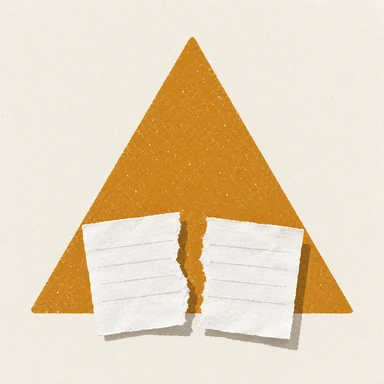
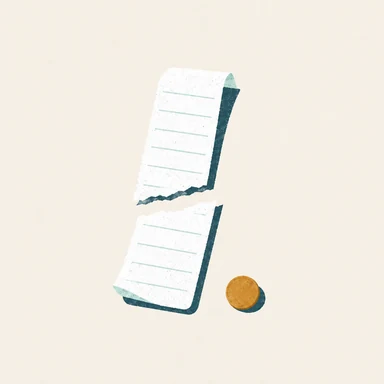
feat(aset): pita scan jadi CSS, enam ilustrasi digambar ulang, error tanpa segitiga
1. Pita scan: 126 KB -> 0. `scan-frames.webp` berisi 20 frame struk yang sama,
   cuma garis hijaunya yang turun — 126 KB untuk memindahkan satu garis, dan
   ditumpuk di atas `scan.webp` sehingga rawan dobel 1 px. Sekarang `.ds-scan-beam`
   gradient CSS digeser translate3d 0->92 px, 1,15 dtk alternate, easing melambat
   di dua ujung; 60 fps karena compositor, bukan 20 sel di 700 ms (~28 fps).
   Berkas dan pemakaian SpriteFrames di layar Buat dihapus.

2. Enam ilustrasi statis yang mediumnya melawan sistem digambar ulang lewat Codex
   dengan kontrak yang sama disalin apa adanya, tiga aset yang sudah benar
   (welcome/scan/manual) dikirim sebagai referensi gaya:
   create-hero (cat air -> cetak), share (vektor bersih -> kertas bergaris),
   item (ikon generik -> piring potong tangan + koin amber), receipt-app (garis
   telanjang -> ada bayangan keras), home-empty (gradien+blur -> flat),
   error (segitiga amber dihapus, tinggal struk sobek dua + koin menggelinding).

3. Berat turun: enam aset 131 KB -> 61 KB. Dinilai pada ukuran tampil sebenarnya
   (104-216 px), semua terbaca; receipt-app yang paling rapuh tapi masih jelas.

Uji: 46 lulus (photo-intents, bills, app) termasuk 40b yang ditulis ulang untuk
mengukur transform pita, bukan background-position sprite. tsc bersih.

Changed region(s): [[0.0625, 0.0938, 0.9375, 0.9375], [0.5625, 0.6875, 0.6875, 0.8125], [0.625, 0.625, 0.6875, 0.6562]]

diff --git a/frontend/tests/photo-intents.spec.ts b/frontend/tests/photo-intents.spec.ts
@@ -122,7 +122,7 @@ test.describe('Bill baru — foto boleh dibaca AI, boleh cuma dilampirkan', () =
     await expect(page.getByText(/Membaca struk…/)).toHaveCount(0)
   })
 
-  test('40b. yang bergerak saat memindai hanya garis hijaunya, bukan ilustrasinya', async ({ page }) => {
+  test('40b. yang bergerak saat memindai hanya pitanya, bukan ilustrasinya', async ({ page }) => {
     await freshUser(page, 'Candra')
     // Tahan keadaan memindai cukup lama untuk diukur.
     await page.route('**/api/ocr', async (route) => {
@@ -136,7 +136,7 @@ test.describe('Bill baru — foto boleh dibaca AI, boleh cuma dilampirkan', () =
 
     await page.goto('/create')
     await pickPhotoThrough(page, 'ocr')
-    await expect(page.locator('.ds-scan-frames')).toBeVisible({ timeout: 20000 })
+    await expect(page.locator('.ds-scan-beam')).toBeVisible({ timeout: 20000 })
 
     /* Ilustrasinya harus diam: dulu seluruh gambar diangguk 3 px, dan mata
        membacanya sebagai gambar goyang, bukan alat yang sedang memindai. */
@@ -145,19 +145,16 @@ test.describe('Bill baru — foto boleh dibaca AI, boleh cuma dilampirkan', () =
     )
     expect(latar, 'ilustrasi tidak boleh ikut bergerak').toBe('none')
 
-    /* Pita pindainya 8 frame hasil generate: yang berubah adalah pilihan sel
-       (background-position), bukan transform satu gambar. Diukur bukan dari
-       animasinya tapi dari nilai yang benar-benar dipakai — kalau jarak
-       langkahnya salah, posisinya jatuh di antara dua sel dan yang tampil
-       potongan struk sebelah. */
+    /* Pitanya sekarang gradient CSS yang digeser `transform` — 0 byte aset, dan
+       compositor yang menjalankannya di 60 fps. Yang diukur nilai transform yang
+       benar-benar dipakai, bukan nama animasinya. */
     const baca = () =>
       page.evaluate(() => {
-        const pita = document.querySelector('.ds-scan-frames') as HTMLElement
+        const pita = document.querySelector('.ds-scan-beam') as HTMLElement
         const art = document.querySelector('.ds-scan-art') as HTMLElement
         const gaya = getComputedStyle(pita)
         return {
-          posisi: gaya.backgroundPosition,
-          ukuran: gaya.backgroundSize,
+          posisi: gaya.transform,
           animasi: gaya.animationName,
           pita: pita.getBoundingClientRect().toJSON(),
           art: art.getBoundingClientRect().toJSON(),
@@ -165,13 +162,10 @@ test.describe('Bill baru — foto boleh dibaca AI, boleh cuma dilampirkan', () =
       })
 
     const awal = await baca()
-    /* 20 sel sekarang; animasinya digerakkan `requestAnimationFrame`, bukan
-       keyframe CSS, jadi yang diperiksa nilai `background-position` yang benar-
-       benar berubah — bukan nama animasinya. */
-    expect(awal.ukuran).toBe('2000% 100%')
-    await page.waitForTimeout(300)
+    expect(awal.animasi, 'pitanya harus dianimasikan').toContain('ds-pindai')
+    await page.waitForTimeout(320)
     const tengah = await baca()
-    expect(tengah.posisi, 'pitanya harus pindah frame').not.toBe(awal.posisi)
+    expect(tengah.posisi, 'pitanya harus bergerak').not.toBe(awal.posisi)
 
     // Selama bergerak, pitanya tetap di dalam kotak ilustrasi.
     for (const f of [awal, tengah]) {
@@ -179,13 +173,13 @@ test.describe('Bill baru — foto boleh dibaca AI, boleh cuma dilampirkan', () =
       expect(f.pita.bottom, 'pita keluar dari bawah kotak').toBeLessThanOrEqual(f.art.bottom + 0.5)
     }
 
-    // Yang meminta gerak dikurangi: pitanya diam di frame pertama, bukan melambat.
+    // Yang meminta gerak dikurangi: pitanya berhenti, bukan melambat.
     await page.emulateMedia({ reducedMotion: 'reduce' })
     const diam = await page.evaluate(() => {
-      const pita = document.querySelector('.ds-scan-frames') as HTMLElement
-      return { posisi: getComputedStyle(pita).backgroundPosition }
+      const pita = document.querySelector('.ds-scan-beam') as HTMLElement
+      return { animasi: getComputedStyle(pita).animationName }
     })
-    expect(diam.posisi, 'gerak dikurangi: pitanya menetap di frame pertama').toBe('0px 0px')
+    expect(diam.animasi, 'gerak dikurangi: pitanya berhenti').toBe('none')
   })
 
   test('40c. screenshot di papan klip bisa ditempel, teks biasa tidak mengganggu', async ({ page }) => {
@@ -232,7 +226,7 @@ test.describe('Bill baru — foto boleh dibaca AI, boleh cuma dilampirkan', () =
 
     await page.getByRole('button', { name: 'Baca pakai AI' }).click()
     await expect(page.locator('.ds-create-hero.is-scanning')).toBeVisible({ timeout: 20000 })
-    await expect(page.locator('.ds-scan-frames')).toBeVisible()
+    await expect(page.locator('.ds-scan-beam')).toBeVisible()
     await expect(page.locator('#bill-title')).toHaveValue(/Gojek/i, { timeout: 20000 })
     expect(dibaca, 'setelah dipilih, tempelan dibaca AI').toBe(1)
   })

diff --git a/frontend/src/app.css b/frontend/src/app.css
@@ -372,12 +372,12 @@ p, small, .app-note { text-wrap: pretty; }
 
 .welcome-art { border-radius: 22px; object-fit: cover; }
 
-/* Ilustrasi pindai: gambarnya diam, hanya garis hijaunya yang bergerak.
-   Sebelumnya seluruh ilustrasi diangguk 3 px — mata membacanya sebagai gambar
-   yang goyang, bukan sebagai alat yang sedang memindai. Sekarang yang bergerak
-   hanya pitanya, dan pitanya benar-benar delapan gambar berbeda: pita pindai
-   turun dari frame ke frame (`anim/scan-frames.webp`), bukan satu garis yang
-   digeser transform di atas gambar diam lain. Ilustrasi diamnya tetap diam. */
+/* Ilustrasi pindai: gambarnya diam, hanya pitanya yang bergerak.
+   Pita ini dulu 20 frame raster (126 KB) yang isinya struk yang sama, cuma
+   garis hijaunya yang turun — bayar 126 KB untuk memindahkan satu garis, dan
+   artefaknya ditumpuk dua lapis di atas `scan.webp` (rawan dobel 1 px). Sekarang
+   pitanya gradient CSS: 0 byte, digerakkan `transform` saja, jadi compositor
+   yang jalan di 60 fps — bukan 20 sel di 700 ms (~28 fps). */
 .ds-scan-art {
   position: relative;
   width: 120px;
@@ -393,25 +393,45 @@ p, small, .app-note { text-wrap: pretty; }
   border-radius: 16px;
   display: block;
 }
-/* 20 sel: pemutar JS yang memilih selnya (lihat SpriteFrames), jadi ukuran
-   gambar cukup dinyatakan sekali di sana. Di sini tinggal tempatnya. */
-.ds-scan-frames {
+.ds-scan-beam {
   position: absolute;
-  inset: 0;
+  left: 10%;
+  right: 10%;
+  top: 0;
+  height: 26px;
   z-index: 1;
-  border-radius: 16px;
-  animation: ds-scan-in .18s ease both;
+  border-radius: 8px;
+  pointer-events: none;
+  background: linear-gradient(
+    to bottom,
+    rgba(8, 118, 101, 0) 0%,
+    rgba(8, 118, 101, 0.34) 38%,
+    rgba(8, 118, 101, 0.86) 50%,
+    rgba(8, 118, 101, 0.34) 62%,
+    rgba(8, 118, 101, 0) 100%
+  );
+  will-change: transform;
+  animation:
+    ds-pindai-masuk 0.18s ease both,
+    ds-pindai 1.15s cubic-bezier(0.45, 0, 0.55, 1) 0.18s infinite alternate;
 }
-/* Silang-pudar singkat: frame-frame ini struk tegak, sedangkan ilustrasi
-   diamnya struk miring di dalam bingkai bidik. Tanpa pudar, gantinya terlihat
-   seperti gambar yang tiba-tiba melompat. */
-@keyframes ds-scan-in {
+/* Menyapu turun lalu balik. Easing yang melambat di dua ujung membuatnya
+   terbaca sebagai alat yang bekerja, bukan garis yang dilempar. Jarak tempuh
+   0-92 px menjaga seluruh pita tetap di dalam kotak 120 px. */
+@keyframes ds-pindai {
+  from { transform: translate3d(0, 0, 0); }
+  to { transform: translate3d(0, 92px, 0); }
+}
+@keyframes ds-pindai-masuk {
   from { opacity: 0; }
   to { opacity: 1; }
 }
-/* Kurangi gerak, jangan sekadar memperlambat: pitanya berhenti. */
+/* Kurangi gerak, jangan sekadar memperlambat: pitanya diam di tengah. */
 @media (prefers-reduced-motion: reduce) {
-  .ds-scan-frames { animation: none; }
+  .ds-scan-beam {
+    animation: none;
+    transform: translate3d(0, 46px, 0);
+  }
 }
 
 .welcome-body {

diff --git a/frontend/src/screens/Create.tsx b/frontend/src/screens/Create.tsx
@@ -8,10 +8,8 @@ import { useToast } from '../components/Toast'
 import { ActionGroup, ActionRow, Alert, Button, DateField, Field, SectionHead, Sheet } from '../ds/primitives'
 import { Camera, Images, Plus, X } from '@phosphor-icons/react'
 import { IconPaste } from '../ds/icons'
-import { SpriteFrames } from '../ds/SpriteFrames'
 import createHeroArt from '../assets/create-hero.webp'
 import scanArt from '../assets/scan.webp'
-import scanFrames from '../assets/anim/scan-frames.webp'
 import { markMoneyViewsStale } from '../lib/mutations'
 import { keys, useContacts, type Contact } from '../lib/queries'
 import type { BillResponse } from '../lib/types'
@@ -557,14 +555,11 @@ export function Create({ identityId }: { identityId: string | null }) {
         </section>
       ) : photoBusy ? (
         <div className={'ds-create-hero' + (photoBusy === 'ocr' ? ' is-scanning' : '')} role="status">
-          {/* Ilustrasi diam; saat membaca, 8 frame hasil generate menimpanya:
-              pita pindainya benar-benar bergerak turun dari frame ke frame,
-              bukan satu gambar yang digeser transform. */}
+          {/* Ilustrasi diam, pitanya sendiri yang bergerak: gradient CSS digeser
+              `transform`, jadi 60 fps tanpa satu byte aset tambahan. */}
           <span className="ds-scan-art">
             <img src={scanArt} alt="" width={120} height={120} />
-            {photoBusy === 'ocr' ? (
-              <SpriteFrames src={scanFrames} frame={20} durasi={700} loop className="ds-scan-frames" />
-            ) : null}
+            {photoBusy === 'ocr' ? <span className="ds-scan-beam" aria-hidden="true" /> : null}
           </span>
           <div>
             <b>

diff --git a/frontend/src/assets/ART_CONTRACT.md b/frontend/src/assets/ART_CONTRACT.md
@@ -37,21 +37,21 @@ Composition/framing: <porsi frame, penempatan, ruang kosong>
 | File | Subjek | Tampil | Berat |
 | --- | --- | --- | --- |
 | `anim/coin-sprite.webp` 2688×224 | **12 frame koin berputar** pada sumbu tegak (muka → tepi → muka), satu baris; diputar `steps(12)` 0,96 dtk | 112 px (kotak art) | 81 KB |
-| `anim/scan-frames.webp` 1920×240 | 8 frame struk dengan pita pindai turun | 120 px (Buat · membaca) | 24 KB |
-| `anim/stamp-press.webp` 1280×128 | **10 frame cap menekan**: plat polos (die menghadap ke bawah, tidak kelihatan), mampat 2/4/6%, lalu pulih | 130 px (perayaan lunas) | 37 KB |
+| *(dihapus)* `anim/scan-frames.webp` | diganti pita gradient CSS: 0 byte, `transform` saja, 60 fps | — | 0 KB |
+| `anim/stamp-press.webp` 768×128 | **6 frame cap menekan tanpa bayangan**: diam → stretch 4% → mampat 10% → mampat 14% → pulih 7% → diam. Plat polos (die menghadap ke bawah), bayangan elips di CSS | 130 px (perayaan lunas) | 31 KB |
 | `anim/stamp-ink.webp` 384×128 | **3 frame cetakan tinta** (cincin → setengah → penuh) yang muncul setelah cap mendarat | 104 px (perayaan lunas) | 24 KB |
 | `anim/bill-closed.webp` 1080×240 | 6 frame struk terlipat | 112×150 px (bill ditutup) | 79 KB |
-| `create-hero.webp` 576 px | struk sobek jadi tiga strip, cangkir, koin, bayangan keras | 120 px (Buat · Dari foto) | 63 KB |
+| `create-hero.webp` 576 px | struk sobek jadi tiga strip, cangkir, koin, bayangan keras | 120 px (Buat · Dari foto) | 20 KB |
 | `manual.webp` 320 px | struk dan pensil | 120 px (Buat · Ketik manual) | 13 KB |
 | `invite.webp` 320 px | dua cangkir bersulang | 108 px (sheet Undang teman) | 13 KB |
-| `item.webp` 320 px | piring, sendok, garpu | 108 px (sheet item) | 7 KB |
+| `item.webp` 320 px | piring (tepi potong tangan), garpu, pisau, koin amber | 108 px (sheet item) | 9 KB |
 | `person.webp` 320 px | koin dan setengah struk | 108 px (sheet orang) | 9 KB |
 | `welcome.webp` 512 px | struk berdiri, koin di kakinya | 200 px (layar kenalan) | 5 KB |
-| `home-empty.webp` 512 px | dompet terbuka kosong, dua koin | 216 px (Beranda kosong) | 24 KB |
+| `home-empty.webp` 512 px | dompet terbuka kosong, dua koin; flat, tanpa gradien | 216 px (Beranda kosong) | 21 KB |
 | `scan.webp` 384 px | struk di dalam bingkai pindai, satu garis | 120 px (Buat · sedang membaca) | 20 KB |
-| `share.webp` 384 px | struk terlipat jadi pesawat kertas | 120 px (Bill · ajakan bagikan) | 9 KB |
+| `share.webp` 384 px | struk bergaris terlipat jadi pesawat kertas, koin di kakinya | 120 px (Bill · ajakan bagikan) | 6 KB |
 | `paid.webp` 384 px | cap terangkat dari kertas, **centang hanya ada sebagai tinta di kertas** (plat cap polos) | 150 px (Bill lunas) | 16 KB |
-| `error.webp` 384 px | struk sobek dua, di depan segitiga amber | 160 px (bill tidak bisa dibuka) | 14 KB |
+| `error.webp` 384 px | struk sobek dua terpisah, koin menggelinding dari sobekan. **Tanpa segitiga** — sobetannya yang bercerita | 160 px (bill tidak bisa dibuka) | 5 KB |
 | `transfer.webp` 384 px | kartu bank dan koin berbaris | 120 px (sheet pembayar) | 18 KB |
 
 Aset besar (648/576 px) untuk tempat yang tampil ≥200 px; aset kecil (320 px) untuk

diff --git a/docs/PLAN-ASET-ANIMASI.md b/docs/PLAN-ASET-ANIMASI.md
@@ -147,7 +147,14 @@ tumpukan koin semuanya berbayangan keras satu warna, tanpa gradien. 576 px,
 
 ## 2e. Keadaan membaca struk (dikerjakan)
 
-- `anim/scan-frames.webp`: **8 frame** struk tegak dengan pita pindai yang turun
+- ~~`anim/scan-frames.webp`~~: **DIHAPUS.** 20 frame (126 KB) berisi struk yang sama,
+  hanya garis hijaunya yang turun — 126 KB untuk memindahkan satu garis, dan
+  ditumpuk dua lapis di atas `scan.webp` (rawan dobel 1 px). Sekarang pitanya
+  gradient CSS: `.ds-scan-beam`, `translate3d` 0→92 px, 1,15 dtk `alternate`,
+  easing melambat di dua ujung. **0 byte**, 60 fps. Diukur: `transform` berubah
+  antar 320 ms, pita tetap di dalam kotak 120 px, `prefers-reduced-motion`
+  mematikannya (`animation-name: none`).
+- `anim/scan-frames.webp` (lama): **8 frame** struk tegak dengan pita pindai yang turun
   dari frame ke frame, 1920x240, **24 KB** — lebih ringan dari pasangan lama
   (`scan.webp` 24 KB + `scan-line.webp` 19 KB), dan `scan-line.webp` dihapus.
 - Diputar `steps(8)` 1,9 detik. Jarak langkah tepat 8 x 120 = 960 px; dengan
@@ -374,6 +381,32 @@ menekan, jadi yang terbaca "lingkaran muncul duluan". Tinta sekarang baru ada di
 browser: opasitas tinta 0,00 sampai 491 ms, 0,17 di 558 ms, penuh di 626 ms —
 sebelum penyesuaian; setelah diubah, frame 620 ms belum menampakkan cincin dan frame
 760 ms sudah.
+
+## 2o. Enam ilustrasi statis yang keluar dari keluarga (dikerjakan)
+
+Audit 13 ilustrasi statis pada satu contact sheet menemukan enam yang bahannya beda:
+`create-hero` (cat air/editorial: highlight dimensional, cokelat dalam), `share`
+(vektor bersih, gradien halus, nol grain), `item` (lingkaran sempurna, tanpa aksen
+amber), `receipt-app` (garis saja, tanpa bayangan), `home-empty` (gradien + bayangan
+blur), dan `error` (segitiga amber dominan, tanpa bayangan jatuh).
+
+Keenamnya digambar ulang lewat Codex dengan **kontrak yang sama disalin apa adanya**
+dan tiga aset yang sudah benar (`welcome`, `scan`, `manual`) dikirim sebagai referensi
+gaya untuk dilihat lebih dulu. Hasilnya dinilai pada **ukuran tampil sebenarnya**,
+bukan 1254 px: semua terbaca, yang paling rapuh `receipt-app` (104 px) tapi masih
+terbaca sebagai dokumen.
+
+Dua keputusan subjek:
+
+- **`error` kehilangan segitiganya.** Pemilik: "segitiga nya aneh". Sekarang hanya
+  struk yang sobek dua, terpisah, dengan satu koin menggelinding dari sobekan.
+  Tidak ada tanda seru, tanda tanya, garis putus-putus, atau glow.
+- **`item` diberi koin amber** supaya ada satu aksen keluarga di antara objek besi
+  putih, dan pisau/garpu diberi margin ≥8% supaya crop tidak memotongnya (kejadian
+  lama: pisau terpotong).
+
+Berat: 131 KB → 61 KB untuk enam aset, karena hasil generate sekarang flat dan
+sedikit warna (WebP q88 lebih efisien pada bidang datar).
 
 ## 3. Soal "frame per frame" dari Codex
 
